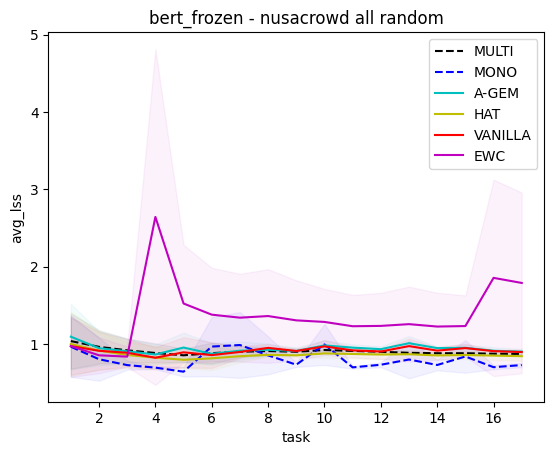
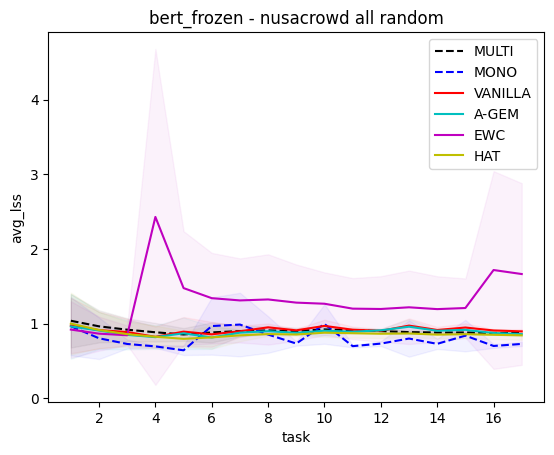
update result

diff --git a/src/utils.py b/src/utils.py
@@ -955,28 +955,28 @@ if __name__ == "__main__":
     #         visualize('', row['exp_id'], f"res/til_classification/nusacrowd/{row['exp_id']} - {row['backbone']}_{row['baseline']}_.txt/{row['backbone']}_{row['baseline']}_.txt", 'nusacrowd_all_random', 'nusacrowd')
     
     # create viz for backbone and baseline combination
-    # list_create_viz = [
-    #     # multi_baseline
-    #     [['bert'], ['mtl', 'one', 'ncl', 'ewc', 'a-gem'], 'multi_baseline'],
-    #     [['bert_frozen'], ['mtl', 'one', 'a-gem', 'hat', 'ncl', 'ewc'], 'multi_baseline'],
+    list_create_viz = [
+        # multi_baseline
+        [['bert'], ['mtl', 'one', 'ncl', 'a-gem', 'ewc', 'hat'], 'multi_baseline'],
+        [['bert_frozen'], ['mtl', 'one', 'ncl', 'a-gem', 'ewc', 'hat'], 'multi_baseline'],
         
-    #     # multi_backbone
-    #     [['bert', 'bert_frozen'], ['a-gem'], 'multi_backbone'],
-    #     [['bert', 'bert_frozen'], ['ewc'], 'multi_backbone'],
-    #     [['bert', 'bert_frozen'], ['hat'], 'multi_backbone'],
-    #     [['bert', 'bert_frozen'], ['mtl'], 'multi_backbone'],
-    #     [['bert', 'bert_frozen'], ['ncl'], 'multi_backbone'],
-    #     [['bert', 'bert_frozen'], ['one'], 'multi_backbone']
-    # ]
+        # multi_backbone
+        [['bert', 'bert_frozen'], ['a-gem'], 'multi_backbone'],
+        [['bert', 'bert_frozen'], ['ewc'], 'multi_backbone'],
+        [['bert', 'bert_frozen'], ['hat'], 'multi_backbone'],
+        [['bert', 'bert_frozen'], ['mtl'], 'multi_backbone'],
+        [['bert', 'bert_frozen'], ['ncl'], 'multi_backbone'],
+        [['bert', 'bert_frozen'], ['one'], 'multi_backbone']
+    ]
     
-    # for elmt in list_create_viz:
-    #     run_create_viz(elmt[0], elmt[1], 'nusacrowd all random', elmt[2])
+    for elmt in list_create_viz:
+        run_create_viz(elmt[0], elmt[1], 'nusacrowd all random', elmt[2])
     
     # recalculate an experiment
     # calculate_metrics(81, 'bert_adapter', 'a-gem')
     
     # recalculate all experiments        
-    calculate_metrics(list_exp.iterrows())
+    # calculate_metrics(list_exp.iterrows())
     
     # get worst forgetting
     # with open('res/til_classification/result_transfer_cl.csv', 'a', newline='') as fp:
@@ -1024,4 +1024,4 @@ if __name__ == "__main__":
     #     merge_heatmap(list_exp_id, setting[0], setting[1])
     
     # test loss visualization
-    viz_loss(156, 'bert', 'a-gem', 17, 20)
+    # viz_loss(156, 'bert', 'a-gem', 17, 20)

diff --git a/src/approaches/classification/bert_agem.py b/src/approaches/classification/bert_agem.py
@@ -93,6 +93,8 @@ class Appr(ApprBase):
             if valid_loss<best_loss:
                 best_loss=valid_loss
                 best_model=utils.get_model(self.model)
+                patience=self.lr_patience
+                
                 print(' *',end='')
 
             print()
@@ -137,6 +139,7 @@ class Appr(ApprBase):
             # now compute the grad on the current data
             optimizer.zero_grad()
             output_dict = self.model.forward(input_ids, segment_ids, input_mask)
+            pooled_rep = output_dict['normalized_pooled_rep']
             if 'dil' in self.args.scenario:
                 output=output_dict['y']
             elif 'til' in self.args.scenario:

diff --git a/src/preparation.py b/src/preparation.py
@@ -19,7 +19,7 @@ logging.basicConfig(format='%(asctime)s - %(levelname)s - %(name)s -   %(message
 logger = logging.getLogger(__name__)
 
 #
-if not args.multi_gpu: torch.autograd.set_detect_anomaly(True)
+# if not args.multi_gpu: torch.autograd.set_detect_anomaly(True)
 
 # ----------------------------------------------------------------------
 # Create needed folder, results name, reult matrix, if any.

diff --git a/rearrage.py b/rearrage.py
@@ -1,0 +1,3 @@
+
+
+def rearrange()
